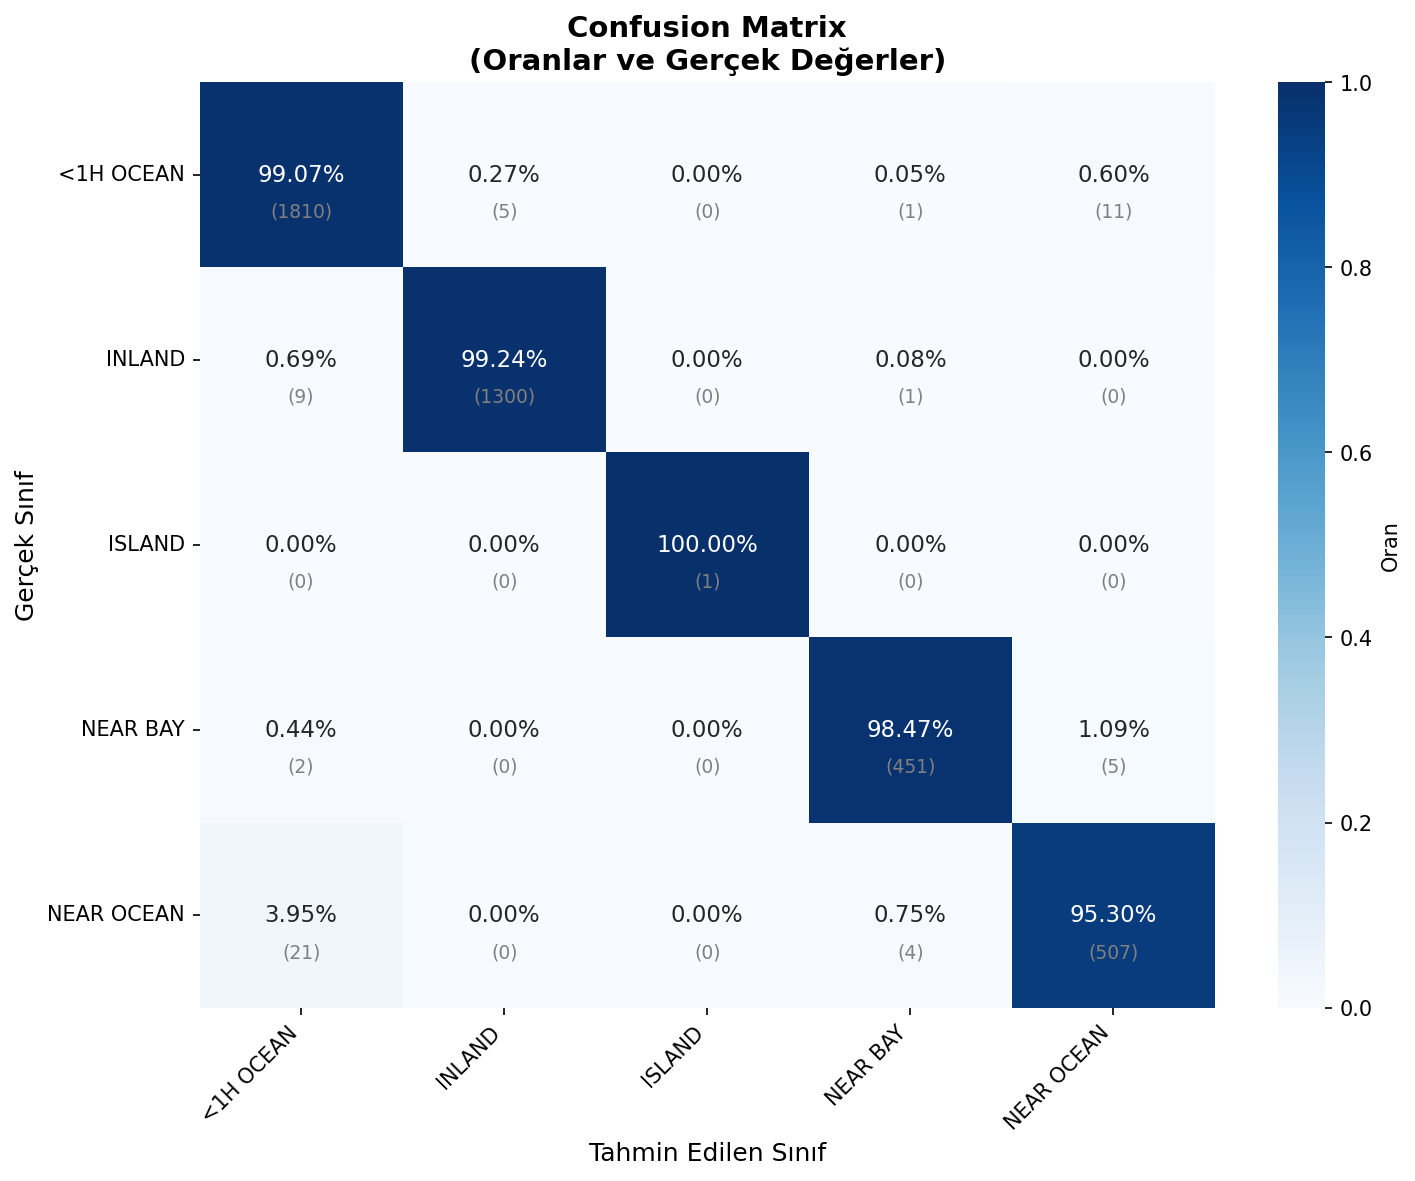
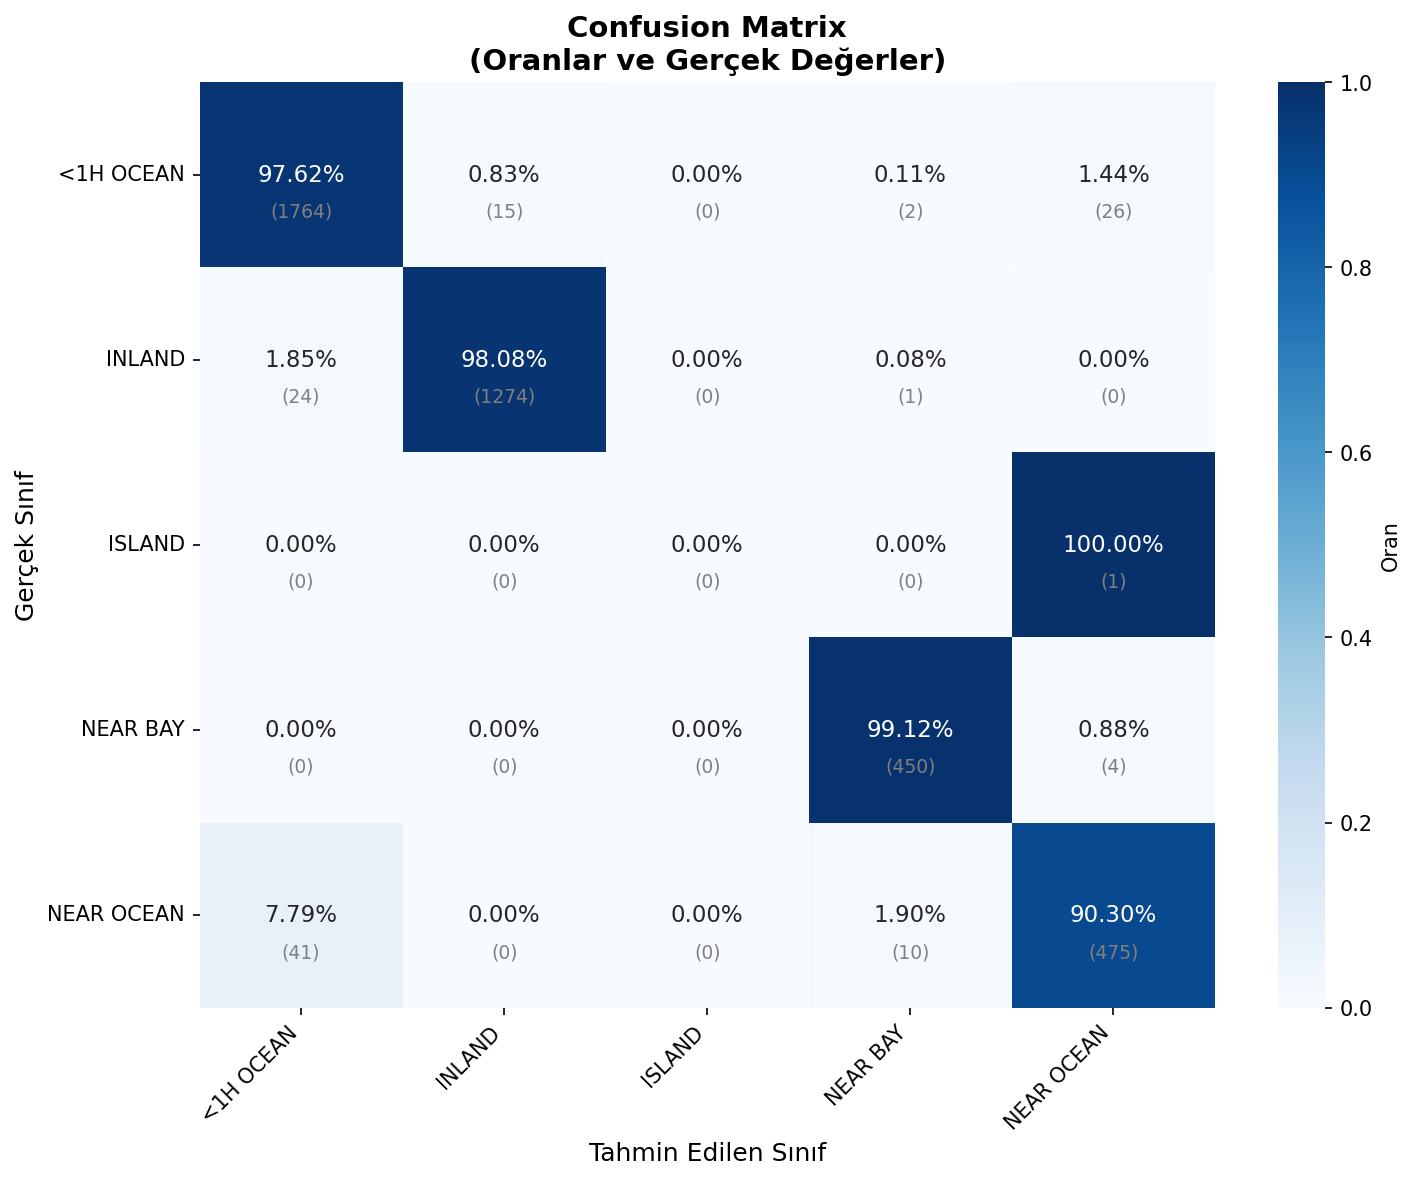
Updating classification and clustering results.

diff --git a/classification/classification.py b/classification/classification.py
@@ -23,13 +23,15 @@ from data import dataForClassification
 class OceanProximityClassifier:
     """California okyanus yakınlığı sınıflandırma modeli (Random Forest)"""
     
-    def __init__(self, n_estimators=100, max_depth=15, random_state=42):
+    def __init__(self, n_estimators=100, max_depth=10, random_state=42):
         self.n_estimators = n_estimators
         self.max_depth = max_depth
         self.random_state = random_state
         self.model = RandomForestClassifier(
             n_estimators=n_estimators,
             max_depth=max_depth,
+            min_samples_split=5,  # Overfitting önleme
+            min_samples_leaf=2,   # Overfitting önleme
             random_state=random_state,
             n_jobs=-1
         )
@@ -40,7 +42,12 @@ class OceanProximityClassifier:
         self.y_train = None
         self.y_test = None
         self.y_pred = None
-        self.feature_names = ['longitude', 'latitude', 'median_income', 'median_house_value']
+        self.y_train_pred = None  # Overfitting kontrolü için
+        self.feature_names = [
+            'longitude', 'latitude', 'housing_median_age', 
+            'total_rooms', 'total_bedrooms', 'population', 
+            'households', 'median_income', 'median_house_value'
+        ]
         self.target_name = 'ocean_proximity'
         self.class_names = None
     
@@ -72,6 +79,7 @@ class OceanProximityClassifier:
         
         self.model.fit(self.X_train, self.y_train)
         self.y_pred = self.model.predict(self.X_test)
+        self.y_train_pred = self.model.predict(self.X_train)  # Overfitting kontrolü
         
         return self.model
     
@@ -89,12 +97,14 @@ class OceanProximityClassifier:
             self.train()
         
         accuracy = accuracy_score(self.y_test, self.y_pred)
+        train_accuracy = accuracy_score(self.y_train, self.y_train_pred)
         precision = precision_score(self.y_test, self.y_pred, average='weighted')
         recall = recall_score(self.y_test, self.y_pred, average='weighted')
         f1 = f1_score(self.y_test, self.y_pred, average='weighted')
         
         return {
             'accuracy': accuracy,
+            'train_accuracy': train_accuracy,
             'precision': precision,
             'recall': recall,
             'f1': f1
@@ -146,6 +156,17 @@ class OceanProximityClassifier:
         print(f"   ├─ Maksimum Derinlik: {self.max_depth}")
         print(f"   └─ Eğitim/Test Oranı: {len(self.X_train)}/{len(self.X_test)}")
         
+        # Overfitting Kontrolü
+        overfit_diff = metrics['train_accuracy'] - metrics['accuracy']
+        print("\n🔍 OVERFITTİNG KONTROLÜ:")
+        print(f"   ├─ Train Accuracy: {metrics['train_accuracy']:.4f} ({metrics['train_accuracy']*100:.1f}%)")
+        print(f"   ├─ Test Accuracy:  {metrics['accuracy']:.4f} ({metrics['accuracy']*100:.1f}%)")
+        print(f"   └─ Fark:           {overfit_diff:.4f} ({overfit_diff*100:.1f}%)")
+        if overfit_diff > 0.05:
+            print("   ⚠  UYARI: Train-Test farkı >5%, overfitting olabilir!")
+        else:
+            print("   ✅ Model dengeli görünüyor (fark ≤5%)")
+        
         print("\n📈 GENEL PERFORMANS METRİKLERİ:")
         print(f"   ├─ Accuracy:  {metrics['accuracy']:.4f} ({metrics['accuracy']*100:.1f}%)")
         print(f"   ├─ Precision: {metrics['precision']:.4f}")
@@ -191,7 +212,7 @@ class OceanProximityClassifier:
 
 # Ana çalıştırma
 if __name__ == "__main__":
-    model = OceanProximityClassifier(n_estimators=100, max_depth=15)
+    model = OceanProximityClassifier(n_estimators=100, max_depth=10)
     model.prepare_data()
     model.train()
     model.print_stats()

diff --git a/clustering/clustering.py b/clustering/clustering.py
@@ -1,6 +1,6 @@
 import pandas as pd
 import numpy as np
-from sklearn.cluster import KMeans
+from sklearn.mixture import GaussianMixture
 import warnings
 import sys
 import os
@@ -14,14 +14,14 @@ sys.path.append(os.path.dirname(os.path.dirname(os.path.abspath(__file__))))
 from data import dataForClustering
 
 class IncomeClusteringModel:
-    """California gelir bazlı K-Means kümeleme modeli"""
+    """California gelir bazlı GMM (Gaussian Mixture Model) kümeleme modeli"""
     
     # 5 gelir seviyesi için etiketler (en yüksekten en düşüğe)
     INCOME_LABELS = ['Süper Zengin', 'Zengin', 'Orta', 'Fakir', 'Çok Fakir']
     
     def __init__(self, n_clusters=5):
         self.n_clusters = n_clusters
-        self.kmeans = KMeans(n_clusters=n_clusters, random_state=42, n_init=10)
+        self.gmm = GaussianMixture(n_components=n_clusters, random_state=42, n_init=10)
         self.data = None
         self.clusters = None
         self.cluster_centers = None
@@ -42,10 +42,11 @@ class IncomeClusteringModel:
         
         # Sadece gelir bazlı kümeleme
         income_data = self.data[['median_income']].values
-        self.clusters = self.kmeans.fit_predict(income_data)
+        self.gmm.fit(income_data)
+        self.clusters = self.gmm.predict(income_data)
         
-        # Küme merkezlerini hesapla
-        self.cluster_centers = self.kmeans.cluster_centers_
+        # Küme merkezlerini hesapla (GMM'de means_ kullanılır)
+        self.cluster_centers = self.gmm.means_
         self.income_by_cluster = {i: self.cluster_centers[i][0] for i in range(self.n_clusters)}
         
         # Kümeleri gelire göre sırala (yüksekten düşüğe)
@@ -88,7 +89,7 @@ class IncomeClusteringModel:
         """İstatistikleri yazdır"""
         stats = self.get_cluster_stats()
         print("=" * 50)
-        print("K-MEANS KÜMELEME SONUÇLARI (5 GELİR SEVİYESİ)")
+        print("GMM KÜMELEME SONUÇLARI (5 GELİR SEVİYESİ)")
         print("=" * 50)
         
         # Gelire göre sıralı yazdır

diff --git a/data.py b/data.py
@@ -12,4 +12,4 @@ dataForClustering = df[["longitude","latitude","median_income"]]
 
 dataForRegression = df[["longitude","latitude","median_income","median_house_value"]]
 
-dataForClassification = df[["longitude","latitude","median_income","median_house_value","ocean_proximity"]]
+dataForClassification = df[["longitude","latitude","housing_median_age","total_rooms","total_bedrooms","population","households","median_income","median_house_value","ocean_proximity"]]
